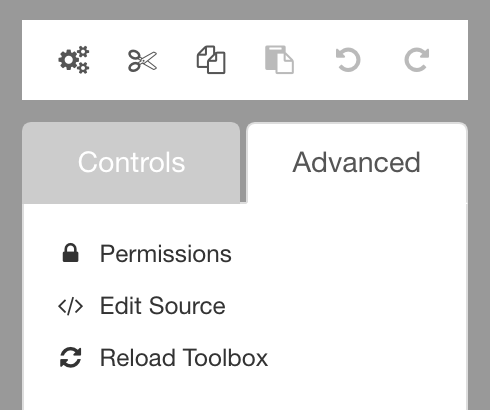
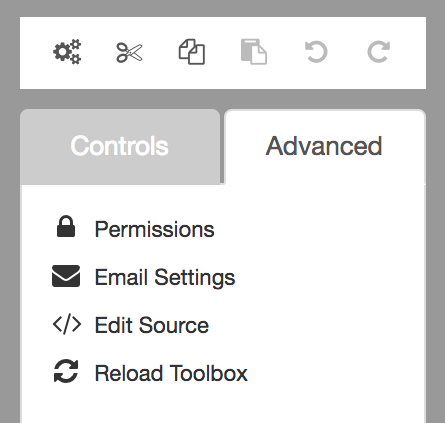
Email Settings

diff --git a/form-builder/email-settings.md b/form-builder/email-settings.md
@@ -1,0 +1,87 @@
+# Email settings
+
+## Availability
+
+This feature is available since Orbeon Forms 2018.1.
+
+This is an Orbeon Forms PE feature.
+
+## Introduction
+
+The "Email Settings" button under the "Advanced" tab in the toolbox opens the "Email Settings" dialog.
+
+<img src="images/advanced-menu.png" width="245">
+
+The Email Settings allow you to specify, for the given form:
+
+- an email subject
+- an email body
+
+In addition, subject and body can optionally be parametrized to fill placeholders with control values or
+the result of formulas (specified as XPath expressions).
+
+If the form definition has more than one language, subject and body are specified by language.
+
+## Email subject
+
+You can specify an email subject by deselecting the "Template from Properties" checkbox. When that checkbox is selected, the subject template [comes from a property](../configuration/properties/form-runner/detail-page/email.md#email-subject-and-body). This is the default for backward compatibility.
+
+```xml
+<property 
+    as="xs:string"
+    name="oxf.fr.resource.*.*.en.email.subject"
+    value="Here is your confirmation: "/>
+```
+
+![Email Subject](images/email-settings-subject.png)
+
+## Email body
+
+
+You can specify an email body by deselecting the "Template from Properties" checkbox. When that checkbox is selected, the body template [comes from a property](../configuration/properties/form-runner/detail-page/email.md#email-subject-and-body). This is the default for backward compatibility.
+
+```xml
+<property 
+    as="xs:string"
+    name="oxf.fr.resource.*.*.en.email.body"
+    value="Hi, here is an email from Orbeon Forms!"/>
+```
+
+The email body can be set in plain text or in rich text (HTML) with the relevant checkbox.
+
+![Email Body](images/email-settings-body.png)
+
+## Template syntax
+
+You set a template placeholder in the subject by using the exact syntax:
+
+```
+{$foo}
+``` 
+
+where `foo` is a name which must match one of the template parameters configured below. You can add new parameters
+with the "+" icon and remove them with the "-" icon.
+
+The following options are available for each template parameter:
+
+- Parameter name: this must be unique among parameters.
+- Parameter value:
+    - __Control Value:__ get the value of a control.
+    - __XPath Expression:__ calculated expression.
+    - __All Control Values:__ the value of all form controls.
+        - This is only available for the email body.
+        - This is experimental as of Orbeon Forms 2018.1. 
+    
+*NOTE: An XPath expression runs in the context of the form data's root element. However, the [Form Runner function library](../xforms/xpath/extension-form-runner.md) is not yet available to the expressions as of Orbeon Forms 2018.1.*
+
+## Localization
+
+When the form definition has more than one language, a language selector appears and allows switching between
+languages for setting a subject or body in the given language.
+
+Note that template parameters are not localized and are used no matter what language is selected. However, a template
+in a given language may omit references to any or all template parameters.
+
+## See also
+
+- [Email subject and body](../configuration/properties/form-runner/detail-page/email.md#email-subject-and-body)

diff --git a/SUMMARY.md b/SUMMARY.md
@@ -23,16 +23,17 @@
 * [Form Builder](form-builder/README.md)
     * [Form settings](form-builder/form-settings.md)
     * [Form editor](form-builder/form-editor.md)
-        * [Form area](form-builder/form-area.md)
         * [Control settings](form-builder/control-settings.md)
         * [Cut, copy and paste](form-builder/cut-copy-paste.md)
-        * [Section settings](form-builder/section-settings.md)
-        * [Validation](form-builder/validation.md)
+        * [Email settings](form-builder/email-settings.md)
+        * [Form area](form-builder/form-area.md)
         * [Itemset editor](form-builder/itemset-editor.md)
         * [Publishing](form-builder/publishing.md)
+        * [Repeated grids](form-builder/repeated-grids.md)
+        * [Section settings](form-builder/section-settings.md)
         * [Toolbox](form-builder/toolbox.md)
         * [Undo and redo](form-builder/undo-redo.md)
-        * [Repeated grids](form-builder/repeated-grids.md)
+        * [Validation](form-builder/validation.md)
     * [Formulas](form-builder/formulas.md)
         * [Examples](form-builder/formulas-examples.md)
     * [Summary page](form-builder/summary-page.md)

diff --git a/configuration/properties/form-runner-email.md b/configuration/properties/form-runner-email.md
@@ -175,6 +175,12 @@ to provide a function for that purpose.*
     
 ## Email subject and body
 
+NOTE: Since Orbeon Forms 2018.1, you can set a form's email subject and body in the Form Builder user interface. You can
+also use template placeholders. See [Email settings](../../form-builder/email-settings.md).
+
+With any Orbeon Forms version, the following properties can be used to set default and per app/form email subject and
+body templates. 
+
 ```xml
 <property 
     as="xs:string"
@@ -186,3 +192,7 @@ to provide a function for that purpose.*
     name="oxf.fr.resource.*.*.en.email.body"
     value="Hi, here is an email from Orbeon Forms!"/>
 ```
+
+## See also 
+
+- [Email settings](../../form-builder/email-settings.md)

diff --git a/form-builder/edit-source.md b/form-builder/edit-source.md
@@ -1,7 +1,5 @@
 # Editing the source code of the form definition
 
-
-
 ## With Orbeon Forms 2017.2 and newer
 
 The "Edit Source" button under the "Advanced" tab in the toolbox opens the "Edit Source" dialog.
